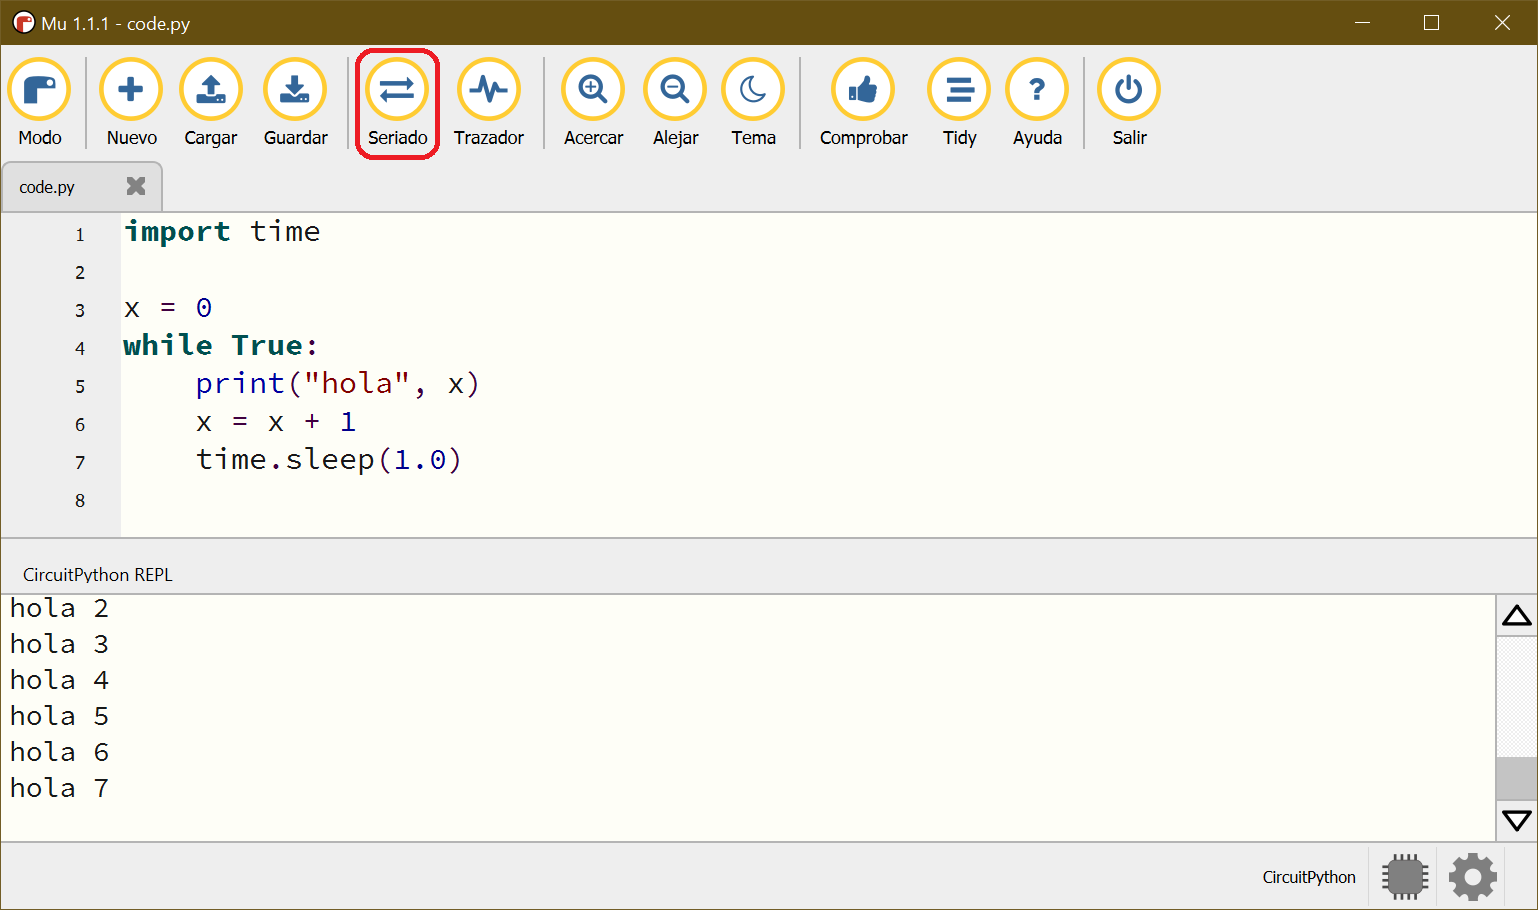
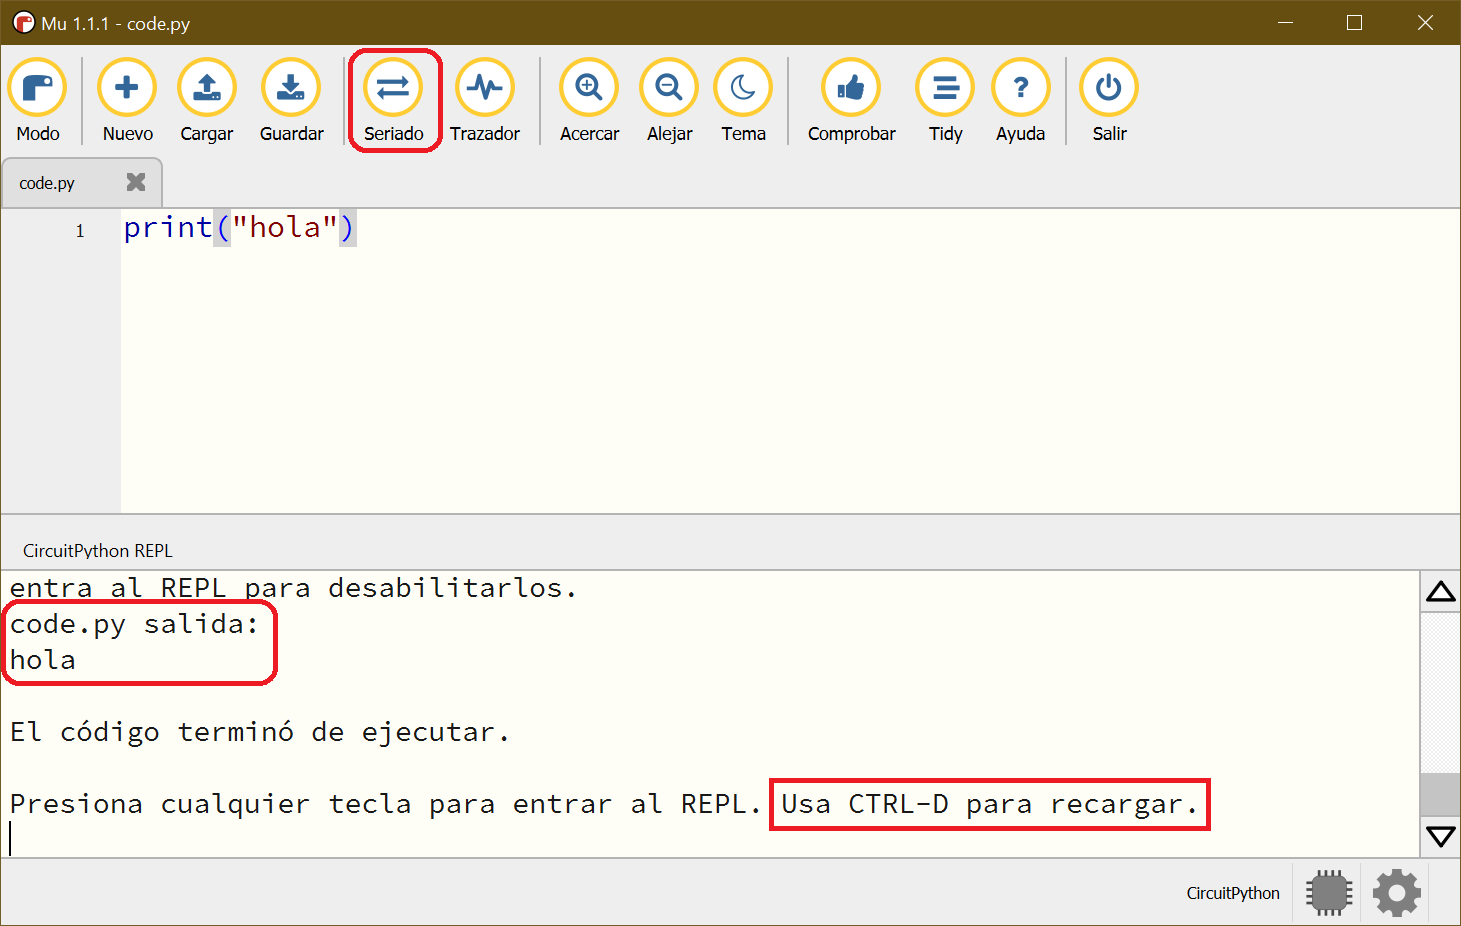
clase-10

diff --git a/clases/clase-10/README.md b/clases/clase-10/README.md
@@ -97,12 +97,12 @@ Sigue los siguientes pasos:
 
 7. Ahora abre Mu editor, la primera vez suele demorar unos 2 minutos en abrir.
 8.  Si te pregunta, elige CircuitPython y debería reconocer automáticamente tu placa.
-9.  Escribe el código que se muestra en la imágen, y guarda el archivo como ```code.py``` dentro de 
-```CIRCUITPI```.
+9.  Escribe ```print("hola")``` y guarda el archivo como ```code.py``` dentro de ```CIRCUITPI```.
 
 <img src="./imagenes/mueditor-test.png">
 
-10. Si todo está bien, al presionar el botón "Seriado" se debería desplegar el mensaje "hola" más un número que va creciendo. Este mensaje lo envía la placa por el cable USB y se nos muestra en el computador.
+10.  Si todo está bien, al presionar el botón "Seriado" se debería desplegar el mensaje "hola". Este mensaje lo envía la placa por el cable USB y se nos muestra en el computador.
+11.  Si quieres volver a ejecutar el código, presiona ```CTRL + D```.
 
 ## Introducción a programar en CircuitPython
 
